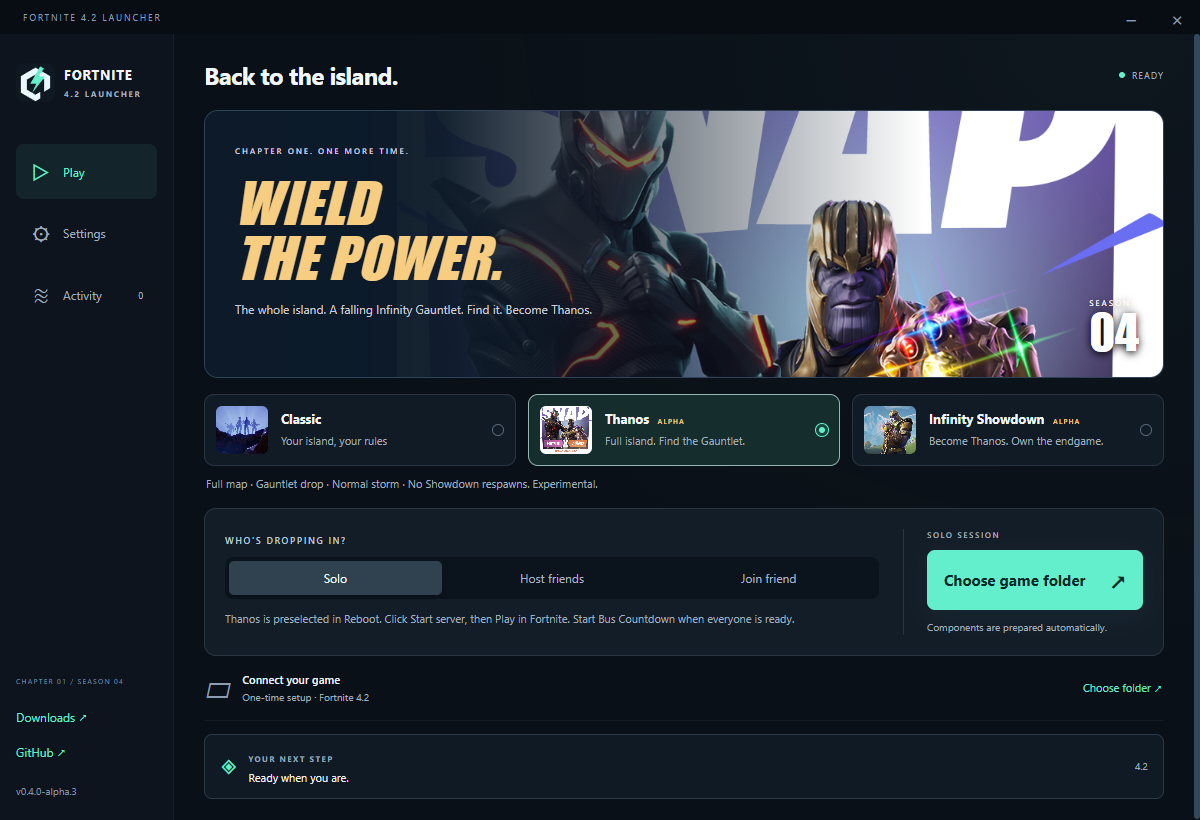
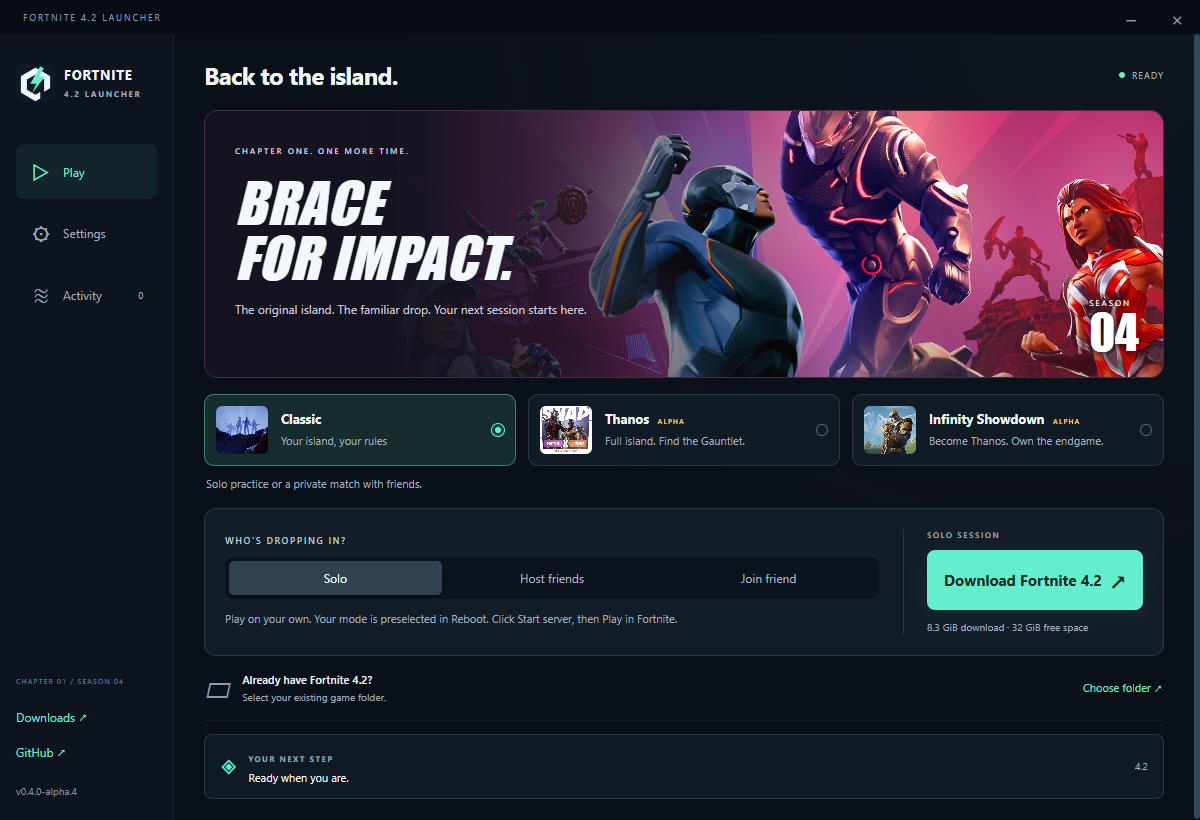
Move game installation to the main Play button for alpha.4

diff --git a/desktop/ui/renderer.js b/desktop/ui/renderer.js
@@ -47,7 +47,9 @@ function renderRules() {
   if (showdown && mode !== 'join') $('mode-note').textContent = 'Choose Start server in Reboot. Once everyone has joined the island, click Start Bus. The server chooses Thanos automatically.';
   else if (thanos && local) $('mode-note').textContent = 'Thanos is preselected in Reboot. Click Start server, then Play in Fortnite. Start Bus Countdown when everyone is ready.';
   else $('mode-note').textContent = notes[mode];
-  $('launch-label').textContent = !$('game-path').value.trim() ? 'Choose game folder' : mode === 'join' ? 'Join friend' : mode === 'host' ? 'Host & play' : 'Launch Fortnite';
+  const missingGame = !$('game-path').value.trim();
+  $('launch-label').textContent = missingGame ? 'Download Fortnite 4.2' : mode === 'join' ? 'Join friend' : mode === 'host' ? 'Host & play' : 'Launch Fortnite';
+  $('launch-hint').textContent = busy ? latestState?.action === 'download' ? 'Keep the launcher open while installing.' : 'Keep the launcher open while playing.' : missingGame ? '8.3 GiB download · 32 GiB free space' : mode === 'join' ? 'Your host must be running first.' : 'Components are prepared automatically.';
 }
 function selectRules(value) {
   gameMode = value;
@@ -57,8 +59,8 @@ function selectRules(value) {
 }
 function updateFolder() {
   const value = $('game-path').value.trim();
-  $('install-title').textContent = value ? 'Fortnite installation selected' : 'Connect your game';
-  $('install-subtitle').textContent = value || 'One-time setup · Fortnite 4.2';
+  $('install-title').textContent = value ? 'Fortnite installation selected' : 'Already have Fortnite 4.2?';
+  $('install-subtitle').textContent = value || 'Select your existing game folder.';
   $('install-subtitle').title = value;
   $('edit-folder').textContent = value ? 'Change folder ↗' : 'Choose folder ↗';
   renderRules();
@@ -73,10 +75,8 @@ function render(state) {
     displayedInstall = state.installedPath; $('game-path').value = state.installedPath; updateFolder();
   }
   renderRules();
-  for (const el of document.querySelectorAll('.mode, #game-path, #host-address, #browse, #check, #prepare, #launch, #edit-folder, #download-game')) el.disabled = busy;
-  $('cancel-download').hidden = !(busy && state.action === 'download');
-  $('cancel-download').disabled = state.phase === 'stopping';
-  $('download-progress').hidden = state.action !== 'download';
+  for (const el of document.querySelectorAll('.mode, #game-path, #host-address, #browse, #check, #prepare, #launch, #edit-folder')) el.disabled = busy;
+  $('download-progress').hidden = state.action !== 'download' || Boolean(state.installedPath);
   const transfer = state.progress;
   const labels = {downloading:'Downloading',retrying:'Connection interrupted — resuming',verifying:'Checking download',inspecting:'Checking archive',extracting:'Unpacking game',checking:'Verifying Fortnite 4.2'};
   if (transfer && transfer.total > 0) {
@@ -90,6 +90,7 @@ function render(state) {
   }
   if (state.phase === 'stopping') $('download-info').textContent = state.message;
   $('launch').hidden = busy; $('stop').hidden = !busy; $('stop').disabled = state.phase === 'stopping';
+  $('stop').textContent = state.action === 'download' ? 'Cancel installation' : 'Stop session';
   const gameReady = state.events.some(event => event.message?.startsWith('Fortnite ready.'));
   $('top-status').textContent = state.phase === 'error' ? 'NEEDS ATTENTION' : state.phase === 'stopping' ? 'STOPPING' : busy ? gameReady ? 'IN SESSION' : 'GETTING READY' : 'READY';
   document.querySelector('.status-pill').classList.toggle('error', state.phase === 'error');
@@ -97,7 +98,6 @@ function render(state) {
   $('status-heading').textContent = state.phase === 'error' ? 'NEEDS ATTENTION' : 'YOUR NEXT STEP';
   const meaningful = state.events.filter(event => !event.message?.startsWith('Keep this window open.')).at(-1)?.message;
   $('status-message').textContent = busy && state.phase !== 'error' && state.phase !== 'stopping' ? meaningful || state.message : state.message;
-  $('launch-hint').textContent = busy ? 'Keep the launcher open while playing.' : mode === 'join' ? 'Your host must be running first.' : 'Components are prepared automatically.';
   document.querySelector('.session-status').classList.toggle('working', busy);
   $('activity-count').textContent = state.events.length;
   if (state.events.length) {
@@ -131,6 +131,11 @@ function renderAddresses(state) {
 }
 async function start(action) {
   $('error-banner').hidden = true;
+  if (action === 'launch' && !$('game-path').value.trim()) {
+    showPage('play');
+    await window.launcher.downloadGame();
+    return;
+  }
   if (!$('game-path').value.trim()) { showPage('setup'); $('game-path').focus(); throw new Error('Choose your Fortnite folder first.'); }
   if (action === 'launch' && mode === 'join' && !$('host-address').value.trim()) { showPage('play'); $('host-address').focus(); throw new Error('Enter your host’s VPN or LAN IPv4 address.'); }
   await window.launcher.start(action, { mode, gamePath: $('game-path').value, host: $('host-address').value, gameMode });
@@ -140,18 +145,14 @@ document.querySelectorAll('[data-page]').forEach(el => el.addEventListener('clic
 document.querySelectorAll('[data-mode]').forEach(el => el.addEventListener('click', () => selectMode(el.dataset.mode)));
 document.querySelectorAll('[data-rules]').forEach(el => el.addEventListener('click', () => selectRules(el.dataset.rules)));
 document.querySelectorAll('[data-link]').forEach(el => el.addEventListener('click', () => safely(() => window.launcher.link(el.dataset.link))));
-$('edit-folder').onclick = () => { showPage('setup'); $('game-path').focus(); };
+const browseFolder = () => safely(async () => { const selected = await window.launcher.browse(); if (selected) { $('game-path').value = selected; updateFolder(); } });
+$('edit-folder').onclick = browseFolder;
 $('back-play').onclick = () => showPage('play');
 $('game-path').oninput = updateFolder;
 $('host-address').oninput = saveSettings;
-$('browse').onclick = () => safely(async () => { const selected = await window.launcher.browse(); if (selected) { $('game-path').value = selected; updateFolder(); } });
+$('browse').onclick = browseFolder;
 for (const [button, action] of [['launch','launch'], ['check','check'], ['prepare','prepare']]) $(button).onclick = () => safely(() => start(action));
 $('stop').onclick = () => safely(() => window.launcher.stop());
-$('cancel-download').onclick = () => safely(() => window.launcher.stop());
-$('download-game').onclick = () => safely(async () => {
-  $('error-banner').hidden = true;
-  await window.launcher.downloadGame();
-});
 $('open-logs').onclick = () => safely(() => window.launcher.logs());
 $('minimize').onclick = () => safely(() => window.launcher.minimize());
 $('close').onclick = () => safely(() => window.launcher.close());

diff --git a/desktop/ui/index.html b/desktop/ui/index.html
@@ -44,13 +44,13 @@
 <div id="join-row" class="join-row" hidden><label for="host-address">Friend's invitation or VPN / LAN IP</label><input id="host-address" placeholder="Paste FN42:25.1.2.3 or an IP" autocomplete="off" spellcheck="false"></div>
 <p id="mode-note" class="session-note">Play on your own. The launcher starts your local server.</p>
 <div id="addresses" class="addresses" hidden></div>
+<div id="download-progress" hidden><progress id="download-bar" max="100" aria-label="Game installation progress"></progress><p id="download-info" role="status" aria-live="polite"></p><p class="download-help">Interrupted? Download again to the same location to resume.</p></div>
 </div>
 <div class="launch-area"><span id="hero-mode" class="eyebrow">SOLO SESSION</span><button id="launch" class="launch-button"><span id="launch-label">Launch Fortnite</span><span aria-hidden="true">↗</span></button><button id="stop" class="stop-button" hidden>Stop session</button><p id="launch-hint">Components are prepared automatically.</p></div>
 </div>
 <div class="install-summary"><span aria-hidden="true">▱</span><div><strong id="install-title">Choose your game folder</strong><small id="install-subtitle">One-time setup · Fortnite 4.2</small></div><button id="edit-folder" class="text-button">Choose folder ↗</button></div>
 </section>
 <section id="page-setup" class="page" aria-label="Settings" hidden>
-<div class="panel download-panel"><span class="eyebrow">GET THE GAME</span><h2>Download Fortnite 4.2.</h2><p>8.3 GiB download · About 32 GiB free space required. Choose a location; the launcher downloads, checks and unpacks the game into a new Fortnite-4.2 folder.</p><div class="download-actions"><button id="download-game" class="secondary accent">Download Fortnite 4.2</button><button id="cancel-download" class="stop-button" hidden>Cancel installation</button></div><div id="download-progress" hidden><progress id="download-bar" max="100" aria-label="Game installation progress"></progress><p id="download-info" role="status" aria-live="polite"></p></div><p class="small-print">Interrupted download? Choose the same location to resume. Your existing game folders stay untouched.</p></div>
 <div class="panel setup-panel"><span class="eyebrow">ONE-TIME SETUP</span><h2>Where's your Fortnite?</h2><p>Select your extracted Fortnite 4.2 folder. It contains <strong>FortniteGame</strong> and <strong>Engine</strong>.</p><label for="game-path">GAME FOLDER</label><div class="path-row"><input id="game-path" placeholder="Folder containing FortniteGame and Engine" spellcheck="false"><button id="browse" class="secondary">Browse folder</button></div><p class="setup-tip">After selecting a folder, return to Play. Downloads and checks happen when you launch.</p><button id="back-play" class="secondary accent">Back to Play →</button><details class="advanced"><summary>Repair and diagnostics</summary><div class="setup-actions"><button id="check" class="secondary">Check installation</button><button id="prepare" class="secondary">Prepare components</button></div></details></div>
 <div class="setup-bottom"><div class="panel network-panel"><span class="eyebrow">PLAY WITH FRIENDS</span><h3>Host. Copy. Join.</h3><ol><li>Use the same LAN or private VPN network.</li><li>The host launches and copies an invitation.</li><li>Friends select Join friend and paste it.</li></ol><button class="text-button" data-link="hamachi">Get Hamachi ↗</button></div><div class="panel"><span class="eyebrow">NEED THE BASICS?</span><h3>Ready for 4.2.</h3><p>Use your own game installation and the Visual C++ x64 runtime.</p><div class="link-row"><button class="text-button" data-link="game">Game files ↗</button><button class="text-button" data-link="runtime">Visual C++ ↗</button></div><p class="small-print">Private community launcher. Not affiliated with Epic Games.</p></div></div>
 </section>

diff --git a/desktop/ui/style.css b/desktop/ui/style.css
@@ -14,4 +14,4 @@ main{flex:1;min-width:0;padding:25px 30px 22px;overflow:auto;background:radial-g
 @media(prefers-reduced-motion:reduce){*,*::before,*::after{animation:none!important;transition:none!important}#startup,.rift-particles{display:none}}
 
 .rules-choice>span:not(.choice-dot){min-width:0}.rules-choice strong{line-height:1.3}.rules-choice small{line-height:1.4}.hero.thanos .hero-art{object-position:center 25%;width:80%}@media(max-width:1050px){.rules-choice>img{width:34px;height:38px}.rules-choice{gap:7px;padding:8px}.rules-choice strong{font-size:11px}.rules-choice b{display:block;margin:3px 0 0}}
-.download-panel{margin-bottom:17px;padding:22px 28px}.download-panel h2{font-size:23px;margin:10px 0}.download-actions{display:flex;gap:12px;align-items:center;margin:12px 0}.download-actions .accent{margin-top:0}.download-actions .stop-button{min-height:39px;padding:10px 15px;font-size:12px}#download-bar{width:100%;height:12px;accent-color:var(--accent);margin:8px 0}#download-info{font-variant-numeric:tabular-nums}.download-panel .small-print{margin-top:10px}
+#download-progress{margin-top:12px}#download-bar{width:100%;height:10px;accent-color:var(--accent)}#download-info,.download-help{font-size:10px;line-height:1.5;color:var(--muted);margin-top:5px}#download-info{font-variant-numeric:tabular-nums}

diff --git a/RELEASE_QA.md b/RELEASE_QA.md
@@ -1,18 +1,18 @@
 # Desktop release checks
 
-## 0.4.0-alpha.4 — built-in Fortnite download (development preview)
+## 0.4.0-alpha.4 — download directly from Play (prerelease)
 
[1 lines of base64/hex data omitted]
 - A full-size installer test resumed the final MiB from the real Drive endpoint, hashed the complete archive, extracted the game, validated every selected file's type/size and detected **4.2 / CL-4072250** before moving the finished folder into place. The archive cache was removed after success.
 - Regression coverage includes Range resume, servers ignoring Range, dropped connections, cancellation, wrong ranges, HTML/quota pages, hash mismatch, hard-linked caches, unsafe/duplicate archive paths, links, wrong game builds, insufficient space, extractor cancellation, retry after cancellation and preserving existing folders.
 - **45 Node tests passed** in the final combined run.
-- **13 desktop tests passed**, including the native folder picker, cancellation, preserving an existing selected game after failure, bounded download IPC, progress display and installed-folder feedback. The progress screen was visually inspected.
+- **13 desktop tests passed**, including the main Play download button, native folder picker, cancellation, choosing an existing installation from Play, bounded download IPC, progress display and automatic installed-folder feedback. The progress and cancel controls were checked at the minimum 940×700 window size and visually inspected.
 - The actual packaged EXE passed a live Drive download/cancel/resume check with a fresh profile. It retained partial bytes across retries and did not select an unfinished game folder. The temporary smoke-test cache was removed afterwards.
 - Installer and portable EXEs were rebuilt successfully. The portable test passed self-extraction, UI/artwork loading, verified payload preparation, invalid-folder recovery and clean close. Current-version checksums are generated in `dist/SHA256SUMS.txt`.
 - A separate packaged startup test launched the actual game-server helper from the newly downloaded installation up to Reboot settings, then stopped it cleanly. Original game settings were restored and no Fortnite processes remained.
 - All **852 staged and unpacked payload hashes** passed, including the native server pin, extractor/source pins and public backend profile templates. No game binaries were included in the launcher payload.
 - The first combined Node run overlapped the real-game smoke test; the existing display-repair guard correctly rejected that test while Fortnite was running. The combined suite was rerun after game shutdown.
-- Google Drive availability/quota remains external. Slow-drive/low-space scenarios, abrupt power loss and a clean-machine installer/uninstaller run are not fully exercised; automated tests cover the stated cancellation and validation paths. Alpha.4 is a local development preview, not a published release.
+- Google Drive availability/quota remains external. Slow-drive/low-space scenarios, abrupt power loss and a clean-machine installer/uninstaller run are not fully exercised; automated tests cover the stated cancellation and validation paths. Alpha.4 is an experimental prerelease; stable 0.3.1 remains separate.
 
 ## 0.4.0-alpha.3 — ordinary Thanos mode (prerelease)
 

diff --git a/README.md b/README.md
@@ -2,11 +2,11 @@
 
 ![Fortnite 4.2 Launcher with Classic, Thanos and Infinity Showdown](docs/launcher-preview.png)
 
-*The screenshot shows the three-mode launcher. The latest published preview is [0.4.0-alpha.3](https://github.com/UniverseMan12/fortnite-4-2-launcher/releases/tag/v0.4.0-alpha.3). This branch adds in-launcher game installation for the upcoming alpha.4.*
+*Fortnite Launcher [0.4.0-alpha.4](https://github.com/UniverseMan12/fortnite-4-2-launcher/releases/tag/v0.4.0-alpha.4) adds game installation directly from the Play screen.*
 
 ## Download the game in the launcher
 
-In **Settings**, click **Download Fortnite 4.2** and choose an installation location. The launcher downloads the owner-provided 8.3 GiB archive, verifies its pinned SHA-256 checksum, extracts only the game files and selects the finished **Fortnite-4.2** folder. Allow about **32 GiB free space** during installation; the downloaded archive is removed after success.
+On **Play**, the main button says **Download Fortnite 4.2** when no game folder is selected. Click it and choose an installation location. Progress and **Cancel installation** stay on the Play screen. The launcher downloads the owner-provided 8.3 GiB archive, verifies its pinned SHA-256 checksum, extracts only the game files and automatically finds and selects the folder containing **FortniteGame** and **Engine**. The main button then becomes **Launch Fortnite** (or Host & play / Join friend). Already installed? Use **Choose folder** directly below the main controls. Allow about **32 GiB free space** during installation; the downloaded archive is removed after success.
 
 You can cancel at any stage. Choose the same location to resume the downloaded bytes; interrupted extraction starts again from the verified archive. Existing installations are never overwritten. If Google Drive's quota or sharing prevents downloading, retry later or select your existing game folder. No Google login, Git, Node.js or separate 7-Zip installation is required by the EXE.
 
@@ -36,7 +36,7 @@ The desktop launcher has Season 4 and Thanos banners and a prominent launch butt
 
 For this prerelease, choose **Fortnite-Launcher-0.4.0-alpha.2-x64-nsis.exe** to install, or **Fortnite-Launcher-0.4.0-alpha.2-x64-portable.exe** to run without installing. The [Releases page](https://github.com/UniverseMan12/fortnite-4-2-launcher/releases) also retains stable **v0.3.1**; build packages are produced by the **Build desktop launcher** workflow.
 
-1. Open the launcher and select **Settings → Browse folder**. Choose the folder containing FortniteGame and Engine.
+1. Open **Play** and click **Download Fortnite 4.2**, or use **Choose folder** if you already have the game. The downloaded installation is selected automatically; an existing installation should contain FortniteGame and Engine.
 2. Choose **Solo**, **Host friends**, or **Join friend**. Join accepts the host's invitation or VPN/LAN IPv4 address.
 3. Click **Launch Fortnite**. Components are prepared automatically. First use needs internet access.
 4. When hosting, choose your playlist in Reboot and click **Start server**. Press **Play** in Fortnite. Start **Bus Countdown** when everyone is on the island.

diff --git a/RELEASE_NOTES.md b/RELEASE_NOTES.md
@@ -1,14 +1,24 @@
-# Fortnite Launcher 0.4.0-alpha.4 — development preview
+# Fortnite Launcher 0.4.0-alpha.4
 
 ## New: download Fortnite 4.2 in the launcher
 
-- Settings → **Download Fortnite 4.2** opens a native folder picker. The launcher downloads the 8.3 GiB archive, checks its pinned SHA-256, unpacks the game and selects the finished folder.
+- The main **Play** button displays **Download Fortnite 4.2** when no game folder is selected. Click it to choose the installation location; no trip to Settings is needed.
+- Progress and **Cancel installation** appear beside the main controls. After download and verification, the launcher unpacks the game, automatically selects the folder containing **FortniteGame** and **Engine**, and switches the button to **Launch Fortnite** (or Host & play / Join friend).
+- If the game is already installed, **Choose folder** opens a folder picker directly from Play.
 - Download progress, retry/resume after interruption and cancellation are built in. Choose the same location to resume; an interrupted extraction can reuse the verified archive.
 - About 32 GiB free space is required while installing. Existing folders are not overwritten. Only the actual Fortnite game subtree is extracted; the archive's extra Epic launcher installers are excluded.
 - The separate, pinned 7-Zip extractor and upstream source are bundled. Game files remain a separate download; no Google login or external extraction application is needed.
 - Google Drive quota/sharing failures are reported with a retry or existing-folder fallback. This feature supports 4.2 / CL-4072250 only.
 
-This preview has not been published as a GitHub release.
+Windows x64 installer and portable builds are provided below. The download is 8.3 GiB and installation needs about 32 GiB of free space. This is an experimental prerelease; v0.3.1 remains the stable version.
+
+## Alpha.4 downloads and validation
+
+- **Fortnite-Launcher-0.4.0-alpha.4-x64-nsis.exe** — installer.
+- **Fortnite-Launcher-0.4.0-alpha.4-x64-portable.exe** — portable application.
+- **SHA256SUMS.txt**, **RELEASE-NOTES.md** and **launcher-preview.png**.
+
+45 Node tests and 13 desktop tests passed. A full-size live download/resume, SHA-256 check, extraction and build detection passed. The installed game also started the real game-server helper and stopped cleanly. Packaged download cancellation/resume and portable checks passed. See the [alpha.4 QA record](https://github.com/UniverseMan12/fortnite-4-2-launcher/blob/v0.4.0-alpha.4/RELEASE_QA.md). Google Drive availability/quota is external; existing-folder selection remains available. The EXEs are unsigned, and clean-machine installation/uninstallation is not fully tested.
 
 ## Previous release: 0.4.0-alpha.3
 
